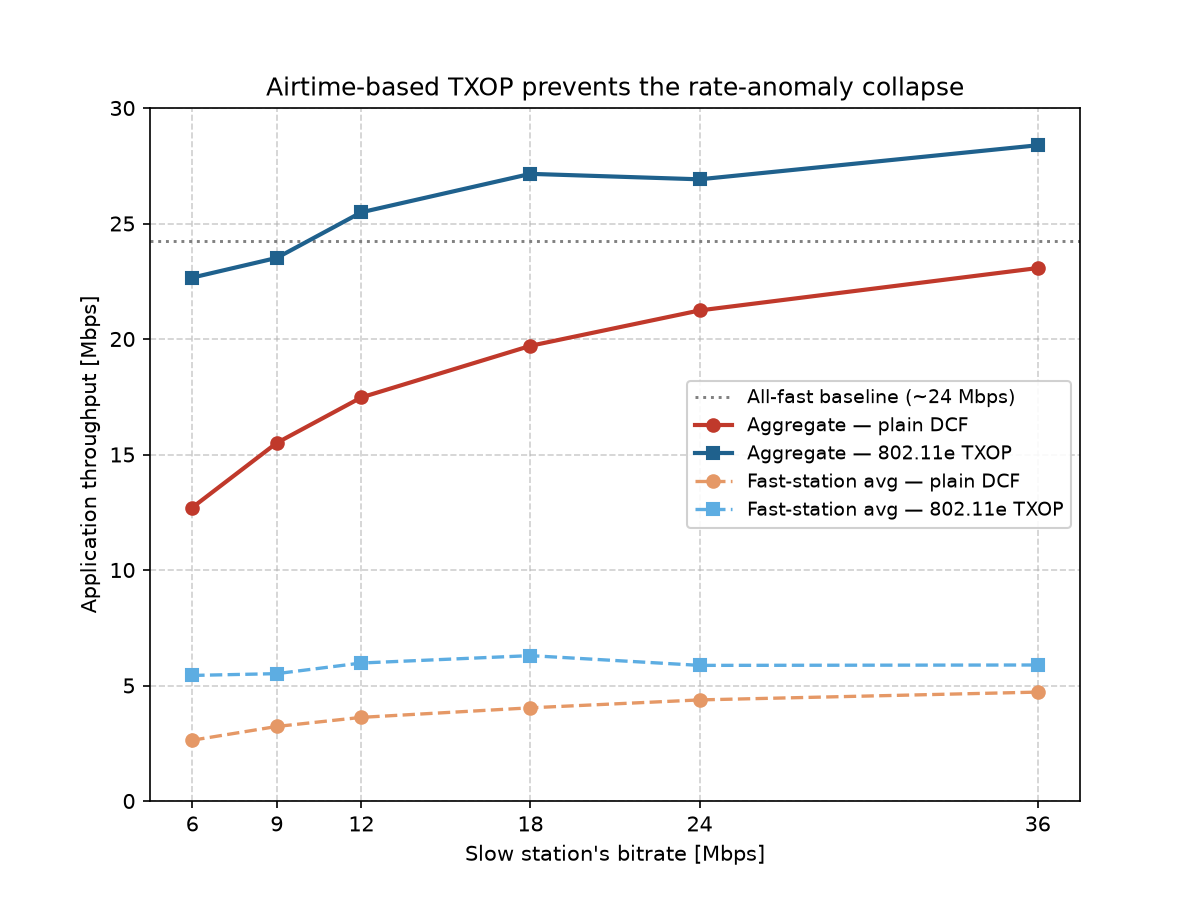
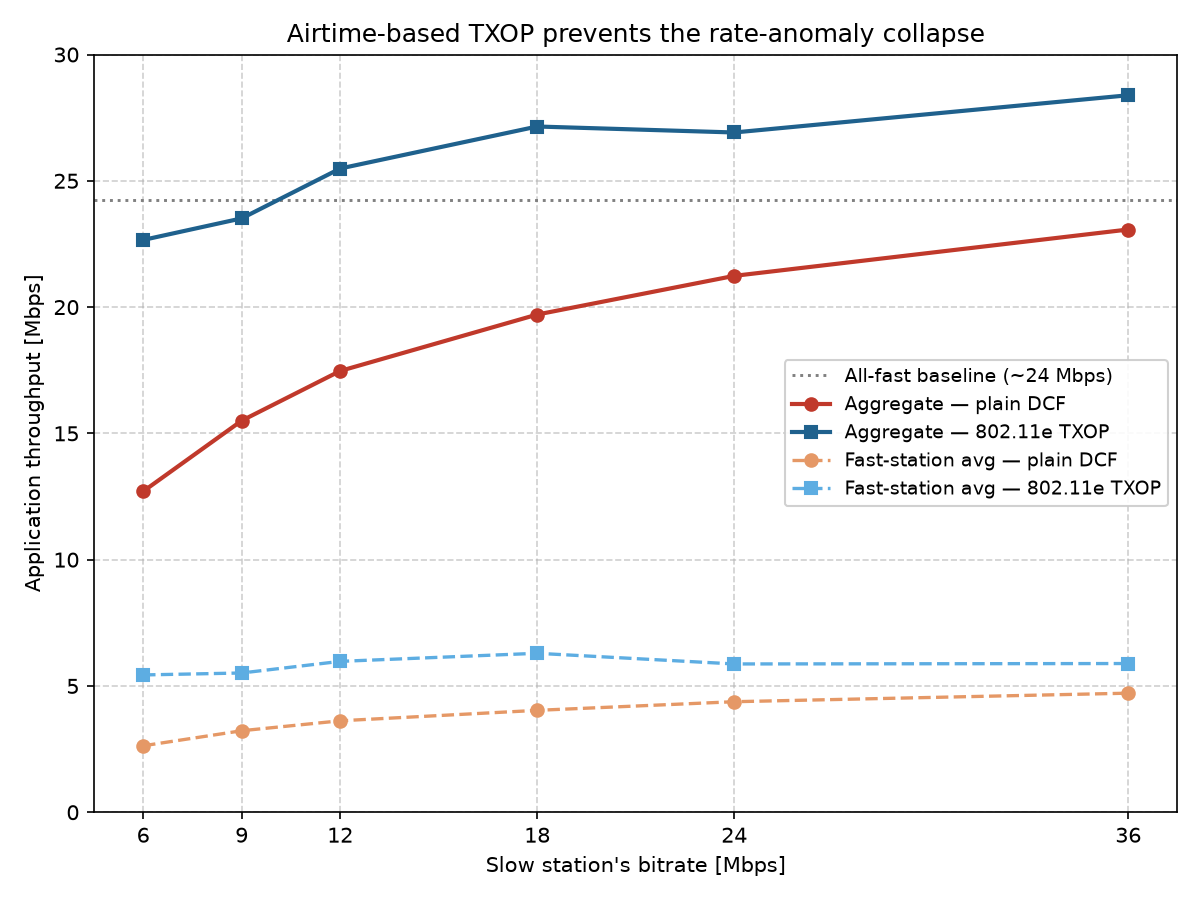
showcases/wireless/rateanomaly: follow-up polish (chart padding, full slow frame in seqchart)
- dl-chart.py / txop-chart.py: add plt.tight_layout() so the plot fills the fixed 1200x900
  figure instead of leaving a wide default margin (the downlink bar chart had an empty right
  strip after dropping bbox_inches="tight"). Content bbox now ~20px uniform margin.
- frame-airtime-sequence: the previous capture ended the window right at the slow frame's
  tail, so the wide 6 Mbps frame appeared to run off the right edge. Widen the window to
  2.004..2.006700s so the whole 667 frame ends with a clear border, its ACK shows, and the
  next frame's start bounds it; recipe anchor updated.

diff --git a/showcases/wireless/rateanomaly/dl-chart.py b/showcases/wireless/rateanomaly/dl-chart.py
@@ -42,6 +42,7 @@ ax.grid(True, axis="y", linestyle="--", alpha=0.6)
 ax.set_axisbelow(True)
 ax.set_ylim(0, 6.5)
 ax.legend(loc="upper left", framealpha=0.9, fontsize=9)
+plt.tight_layout()
 plt.savefig("doc/media/downlink-throughput.png", dpi=150, transparent=True)
 print("saved doc/media/downlink-throughput.png  anomaly=%s  fair=%s" % (
     [round(v, 2) for v in anomaly], [round(v, 2) for v in fair]))

diff --git a/showcases/wireless/rateanomaly/txop-chart.py b/showcases/wireless/rateanomaly/txop-chart.py
@@ -51,5 +51,6 @@ plt.ylim(0, 30)
 plt.grid(True, linestyle="--", alpha=0.6)
 plt.gca().set_axisbelow(True)
 plt.legend(loc="center right", framealpha=0.9, fontsize=9)
+plt.tight_layout()
 plt.savefig("doc/media/txop-throughput-vs-rate.png", dpi=150, transparent=True)
 print("saved doc/media/txop-throughput-vs-rate.png")

diff --git a/showcases/wireless/rateanomaly/doc/index.rst b/showcases/wireless/rateanomaly/doc/index.rst
@@ -240,7 +240,7 @@ whose width is the time it holds the medium:
    axes:     sta[0] (6 Mbps), sta[1] (54 Mbps), accessPoint   (this top-to-bottom order)
    display:  NETWORK_COMMUNICATION; timeline SIMULATION_TIME (linear -- required so block
              width equals airtime; NONLINEAR flattens the contrast)
-   anchor:   window 2.004000s..2.006650s -- the collision-free 6 Mbps frame occupies
+   anchor:   window 2.004000s..2.006700s -- the collision-free 6 Mbps frame occupies
              [2.005044s, 2.006494s]. Any clean (non-colliding) slow frame works; if the
              wide/narrow width ratio stops being ~8x, the bitrates changed.
    capture:  Sequence Chart screenshot, top band (ruler + position/range readout) cropped
